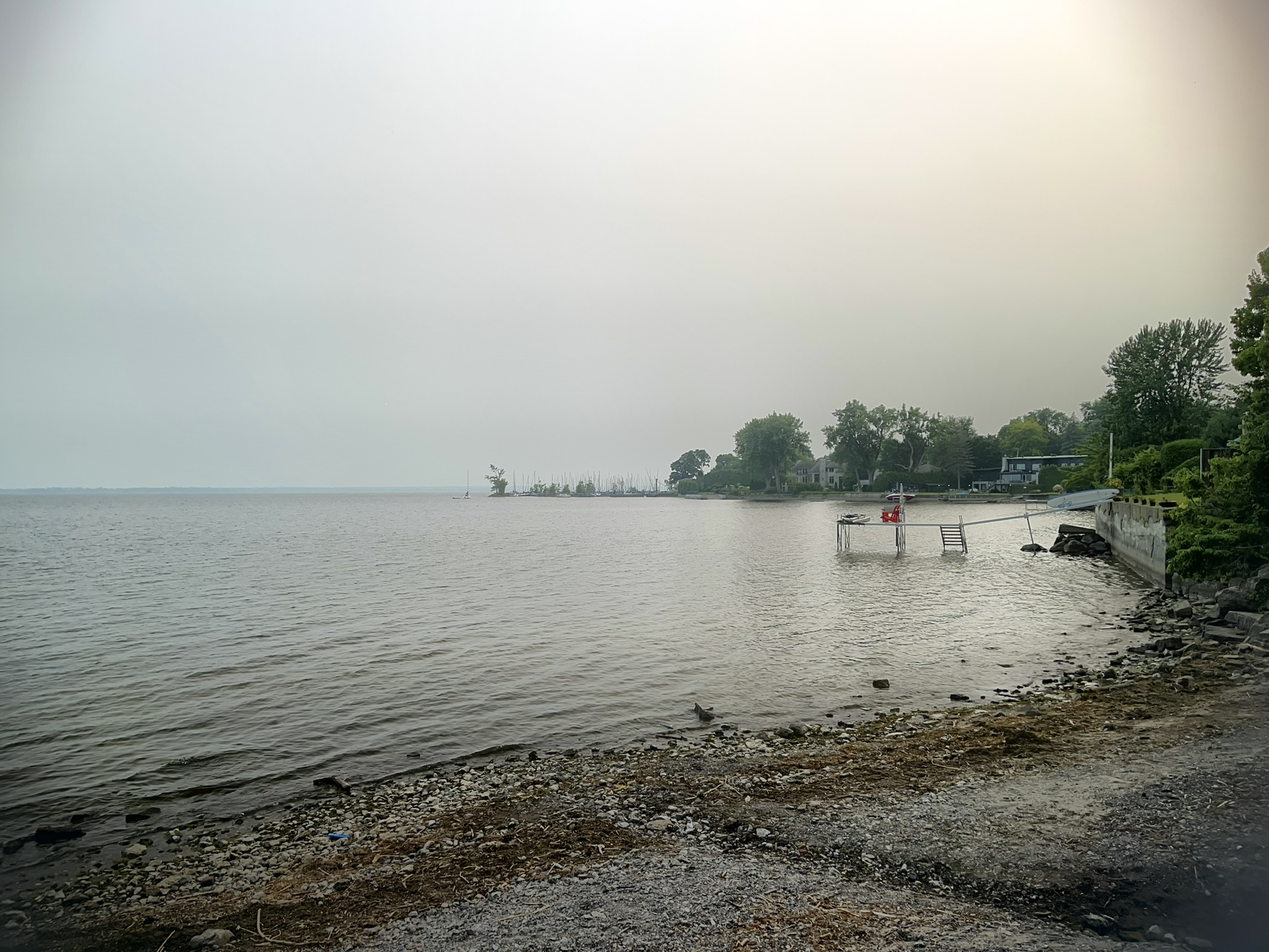
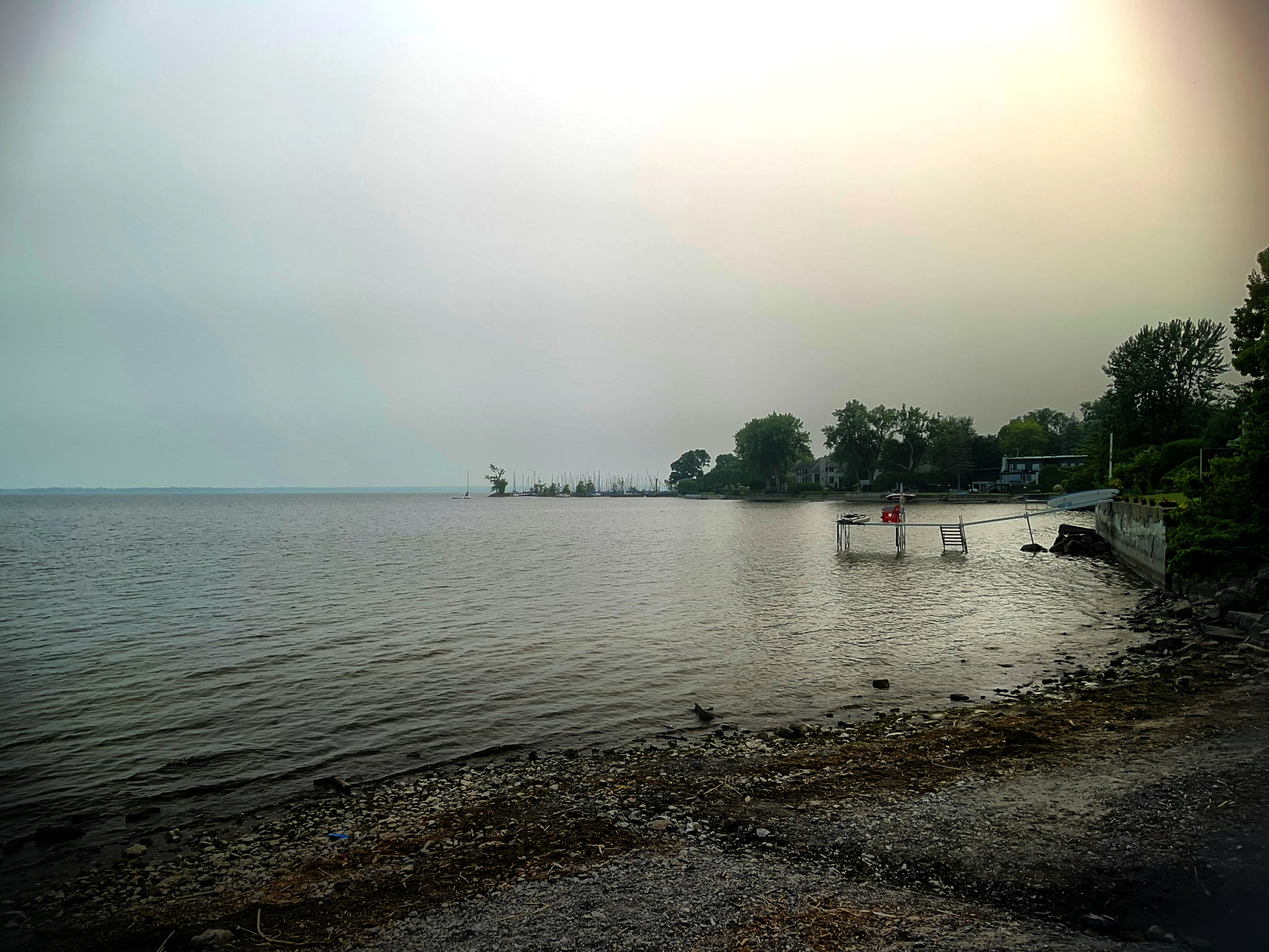
added a bunch of pictures

diff --git a/pictures.js b/pictures.js
@@ -335,5 +335,48 @@ const pictures = [
     ["0305", "water", "phone"],
     ["0320", "night", "phone"],
     [9358, "wind", "phone"],
-    ["0343", "water", "phone"]
+    ["0343", "water", "phone"],
+    ["0359", "night", "phone"],
+    ["0369", "trees", "phone"],
+    ["0416", "pond", "phone"],
+    ["0429", "city", "phone"],
+    ["7506", "night", "phone"],
+    ["0481", "water", "phone"],
+    ["0483", "trees", "phone"],
+    ["0490", "water", "phone"],
+    ["0495", "water", "phone"],
+    ["0502", "water", "phone"],
+    ["0510", "water", "phone"],
+    ["0512", "water", "phone"],
+    ["0518", "trees", "phone"],
+    ["0521", "wind", "phone"],
+    ["0526", "wind", "phone"],
+    ["0547", "wind", "phone"],
+    ["0554", "wind", "phone"],
+    ["0561", "wind", "phone"],
+    ["0569", "wind", "phone"],
+    ["0571", "wind", "phone"],
+    ["0607", "trees", "phone"],
+    ["0608", "wind", "phone"],
+    ["0615", "trees", "phone"],
+    ["0617", "trees", "phone"],
+    ["0625", "trees", "phone"],
+    ["0627", "trees", "phone"],
+    ["0629", "city", "phone"],
+    ["0631", "water", "phone"],
+    ["0634", "trees", "phone"],
+    ["0637", "trees", "phone"],
+    ["0641", "trees", "phone"],
+    ["0645", "wind", "phone"],
+    ["0651", "trees", "phone"],
+    ["0653", "wind", "phone"],
+    ["0663", "city", "phone"],
+    ["0674", "night", "phone"],
+    ["0723", "trees", "phone"],
+    ["0725", "water", "phone"],
+    ["0751", "night", "phone"],
+    ["0755", "wind", "phone"],
+    ["0760", "wind", "phone"],
+    ["0763", "wind", "phone"],
+    ["0794", "trees", "phone"],
 ]
